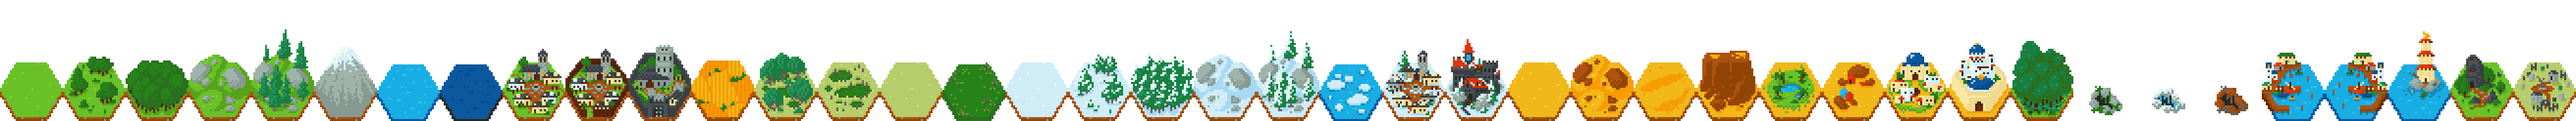
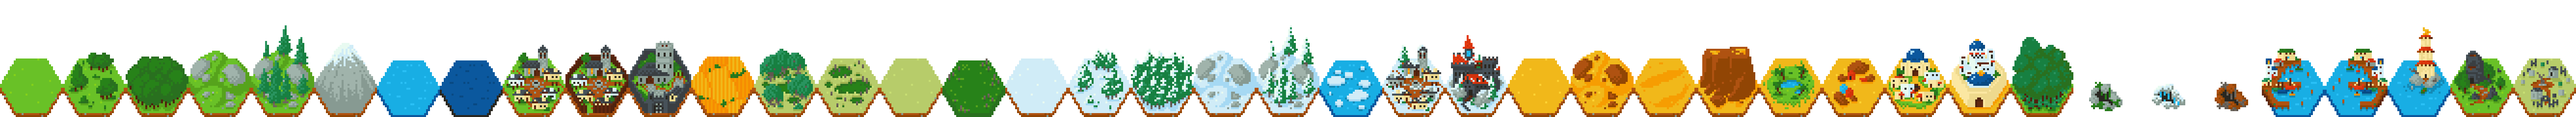
added stretch-marks

diff --git a/HexaGone/wwwroot/js/home/game.js b/HexaGone/wwwroot/js/home/game.js
@@ -167,8 +167,10 @@
         var imgHeight = hexRectangleHeight * 2;
         var imgWidth = hexRectangleWidth;
         var tileX = textureIndex * 128;
-        
-        canvasContext.drawImage(image, tileX, 0, 128, 248, pixelCol, pixelRow, imgWidth, imgHeight);
+
+
+        //canvasContext.drawImage(image, tileX, 0, 128, 240, pixelCol, pixelRow - 16, imgWidth + 1, imgHeight + 32);
+        canvasContext.drawImage(image, tileX, 0, 128, 240, pixelCol, pixelRow - 16 * (sideLength / 100.0), imgWidth + 1, imgHeight + 32 * (sideLength / 100.0));
     }
 
     function drawTextureBoard(canvasContext, image, width, height) {
@@ -318,9 +320,9 @@
     function drawHexagon_f(canvasContext, col, row, fill) {
         var fill = fill || false;
         
-        col = col * (sideLength + hexHeight) - col * 0;
         row = row * hexRectangleHeight + ((col % 2) * hexRadius) - row * 0;
-
+        col = col * (sideLength + hexHeight) - col * 0;
+   
         canvasContext.beginPath();
         canvasContext.moveTo(col + hexHeight, row);
         canvasContext.lineTo(col + hexHeight + sideLength, row);

diff --git a/HexaGone/Controllers/HomeController.cs b/HexaGone/Controllers/HomeController.cs
@@ -34,9 +34,9 @@ namespace HexaGone.Controllers
 
             //===
             // Ausfüllen:
-            hexmap.hexSideLength = 30;
-            hexmap.width = 8;
-            hexmap.height = 4;
+            hexmap.hexSideLength = 25;
+            hexmap.width = 50;
+            hexmap.height = 20;
             hexmap.isPointy = false;
             //===
 
@@ -51,7 +51,8 @@ namespace HexaGone.Controllers
             {
                 for (int j = 0; j < hexmap.height; j++)
                 {
-                    hexmap.texture_index[i][j] = 2;
+                    Random rand = new Random();
+                    hexmap.texture_index[i][j] = rand.Next(0, 40);
                 }
             }
 
